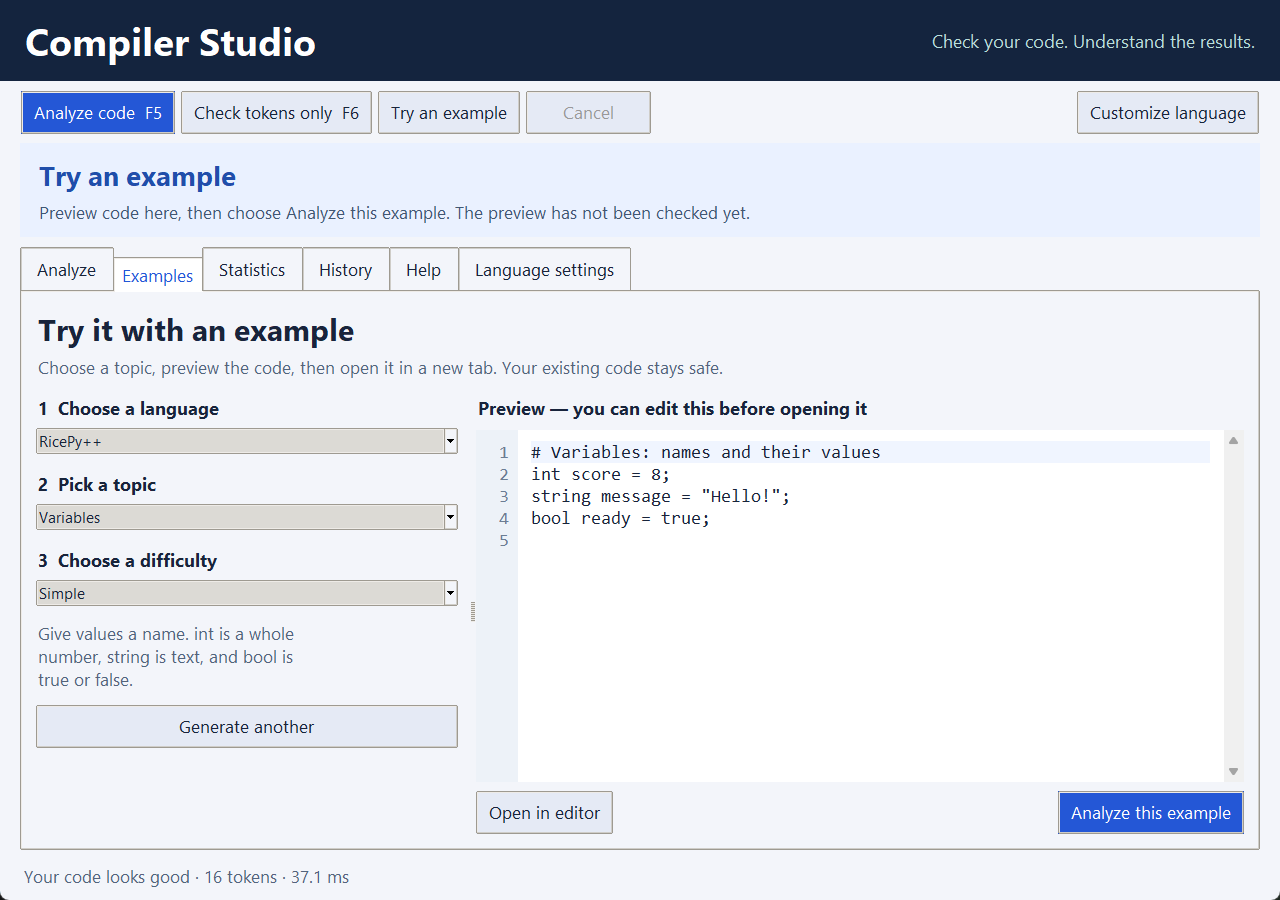
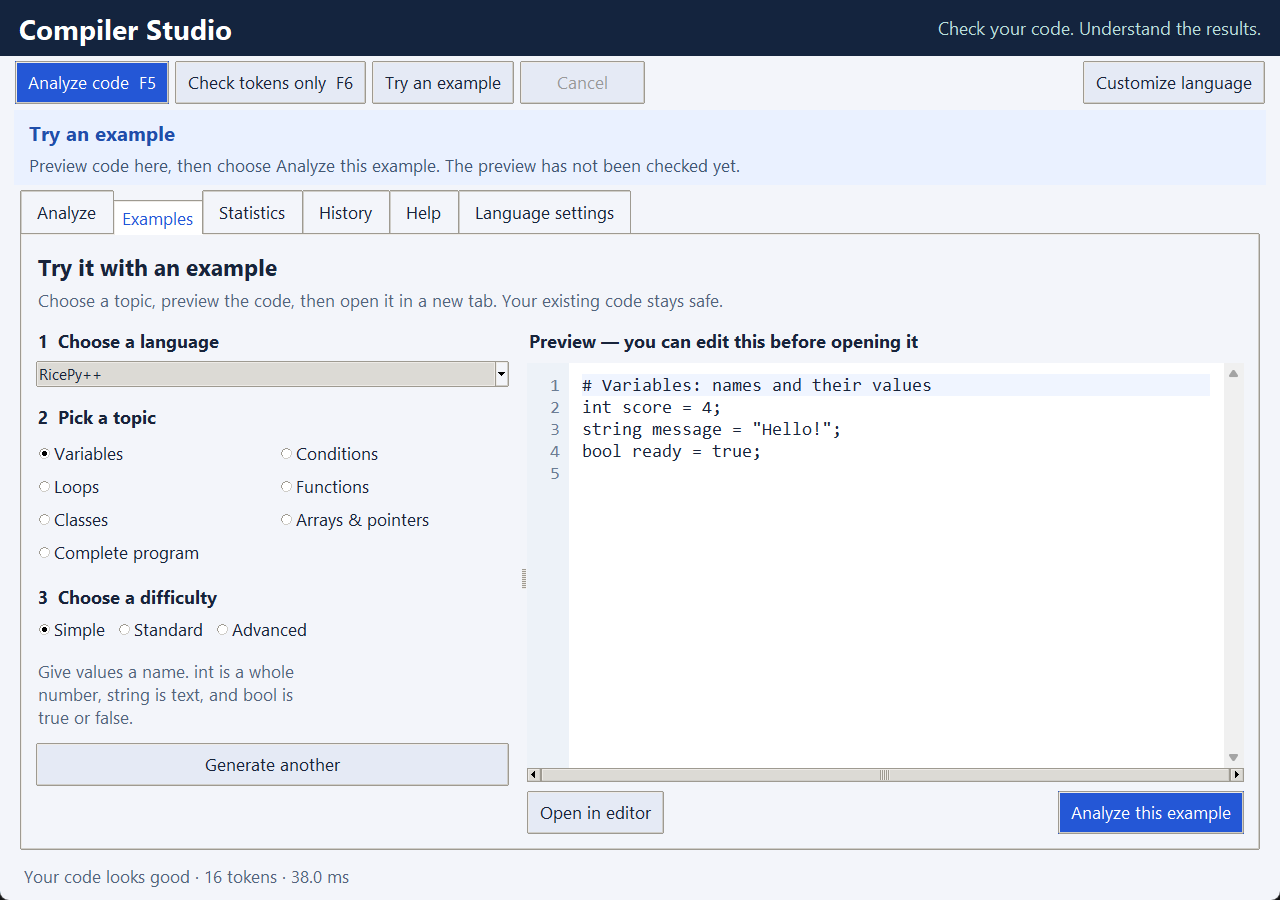
Bring Tamrin's direct workflow to the combined compiler UI

diff --git a/compiler_studio/friendly_ui.py b/compiler_studio/friendly_ui.py
@@ -12,11 +12,11 @@ from .profiles import ricepy_profile, calculator_profile
 
 class FriendlyUI:
     def _build_banner(self, parent):
-        self.banner = tk.Frame(parent, bg="#eaf1ff", padx=16, pady=10)
-        self.banner.pack(fill="x", padx=20, pady=(3, 10))
+        self.banner = tk.Frame(parent, bg="#eaf1ff", padx=12, pady=5)
+        self.banner.pack(fill="x", padx=14, pady=(2, 5))
         self.banner_title = tk.StringVar(value="Start with a small example")
         self.banner_detail = tk.StringVar(value="Edit the code or open a file, then click Analyze code.")
-        self.banner_heading = tk.Label(self.banner, textvariable=self.banner_title, font=("Segoe UI", 16, "bold"),
+        self.banner_heading = tk.Label(self.banner, textvariable=self.banner_title, font=("Segoe UI", 12, "bold"),
                                        bg="#eaf1ff", fg="#204eaa", anchor="w")
         self.banner_heading.pack(fill="x")
         self.banner_text = tk.Label(self.banner, textvariable=self.banner_detail, font=("Segoe UI", 10),
@@ -37,8 +37,8 @@ class FriendlyUI:
     def _build_summary(self):
         self.summary_tab = ttk.Frame(self.outputs, padding=16)
         self.outputs.insert(0, self.summary_tab, text="Summary")
-        exports = ttk.Frame(self.summary_tab)
-        exports.pack(side="bottom", anchor="w", pady=(10, 0))
+        exports = ttk.Frame(self.outputs.master)
+        exports.pack(side="bottom", fill="x", padx=(10, 0), pady=(5, 0), before=self.outputs)
         self.report_button = ttk.Button(exports, text="Save report (JSON)", command=self.export_json, state="disabled")
         self.report_button.pack(side="left", padx=(0, 5))
         self.csv_button = ttk.Button(exports, text="Save tokens (CSV)", command=self.export_csv, state="disabled")
@@ -57,12 +57,12 @@ class FriendlyUI:
         self.explore_structure = ttk.Button(actions, text="Code structure", command=lambda: self.outputs.select(self.structure_tab), state="disabled")
         self.explore_structure.pack(side="left")
         ttk.Button(self.summary_tab, text="Choose another example", command=lambda: self.tabs.select(self.examples_tab)).pack(anchor="w", pady=3)
-        self.outputs.select(self.summary_tab)
+        self.outputs.select(self.tokens_tab)
 
     def _build_examples(self):
         heading = ttk.Frame(self.examples_tab)
         heading.pack(fill="x", pady=(0, 10))
-        ttk.Label(heading, text="Try it with an example", font=("Segoe UI", 18, "bold")).pack(anchor="w")
+        ttk.Label(heading, text="Try it with an example", font=("Segoe UI", 14, "bold")).pack(anchor="w")
         ttk.Label(heading, text="Choose a topic, preview the code, then open it in a new tab. Your existing code stays safe.",
                   style="Muted.TLabel", wraplength=900).pack(anchor="w", pady=(3, 0))
         split = ttk.Panedwindow(self.examples_tab, orient="horizontal")
@@ -79,21 +79,25 @@ class FriendlyUI:
         languages.bind("<<ComboboxSelected>>", self._example_language_changed)
         ttk.Label(choices, text="2  Pick a topic", font=("Segoe UI", 11, "bold")).pack(anchor="w", pady=(15, 6))
         self.example_topic = tk.StringVar(value="Variables")
-        self.example_topics = ttk.Combobox(choices, textvariable=self.example_topic, values=list(TOPICS), state="readonly", width=24)
-        self.example_topics.pack(fill="x")
-        self.example_topics.bind("<<ComboboxSelected>>", lambda event: self.refresh_example())
+        self.topic_choices = ttk.Frame(choices)
+        self.topic_choices.pack(fill="x")
+        self.topic_buttons = {}
+        for column in range(2):
+            self.topic_choices.columnconfigure(column, weight=1)
         choice_footer.pack_forget()
         choice_footer.pack(fill="x", pady=(3, 0))
-        ttk.Label(choice_footer, text="3  Choose a difficulty", font=("Segoe UI", 11, "bold")).pack(anchor="w", pady=(12, 6))
+        ttk.Label(choice_footer, text="3  Choose a difficulty", font=("Segoe UI", 11, "bold")).pack(anchor="w", pady=(10, 4))
         self.example_level = tk.StringVar(value="Simple")
-        levels = ttk.Combobox(choice_footer, textvariable=self.example_level, values=LEVELS, state="readonly", width=24)
+        levels = ttk.Frame(choice_footer)
         levels.pack(fill="x")
-        levels.bind("<<ComboboxSelected>>", lambda event: self.refresh_example())
+        for level in LEVELS:
+            ttk.Radiobutton(levels, text=level, value=level, variable=self.example_level,
+                            command=self.refresh_example).pack(side="left", padx=(0, 8))
         self.example_description = tk.StringVar()
         ttk.Label(choice_footer, textvariable=self.example_description, style="Muted.TLabel", wraplength=285,
                   justify="left").pack(anchor="w", pady=(14, 8))
         self.generate_button = ttk.Button(choice_footer, text="Generate another", command=self.refresh_example)
-        self.generate_button.pack(fill="x", pady=4)
+        self.generate_button.pack(side="bottom", fill="x", pady=4, before=choice_footer.winfo_children()[0])
         actions = ttk.Frame(preview)
         actions.pack(side="bottom", fill="x", pady=(9, 0))
         ttk.Button(actions, text="Open in editor", command=self.open_example).pack(side="left")
@@ -104,7 +108,14 @@ class FriendlyUI:
 
     def _example_language_changed(self, event=None):
         topics = list(TOPICS) if self.example_language.get() == "RicePy++" else ["Arithmetic"]
-        self.example_topics.configure(values=topics)
+        for button in self.topic_buttons.values():
+            button.destroy()
+        self.topic_buttons.clear()
+        for index, topic in enumerate(topics):
+            button = ttk.Radiobutton(self.topic_choices, text=topic, value=topic,
+                                    variable=self.example_topic, command=self.refresh_example)
+            button.grid(row=index // 2, column=index % 2, sticky="w", padx=(0, 6), pady=2)
+            self.topic_buttons[topic] = button
         self.example_topic.set(topics[0])
         self.refresh_example()
 

diff --git a/compiler_studio/gui.py b/compiler_studio/gui.py
@@ -16,7 +16,7 @@ from .worker import AnalysisWorker
 from .editor import CodeEditor
 from .friendly_ui import FriendlyUI
 from .example_library import STARTER
-from .presentation import token_name, STAGES, explain_diagnostic
+from .presentation import token_group, token_name, STAGES, explain_diagnostic
 
 BLUE, INK, MUTED, BG = "#2457d6", "#18243b", "#53647c", "#f3f5fa"
 
@@ -134,11 +134,11 @@ class Studio(FriendlyUI):
         style.configure("Horizontal.TProgressbar", background=BLUE, troughcolor="#e0e7f1", borderwidth=0)
 
     def _build(self):
-        header = tk.Frame(self.root, bg="#14243e", padx=22, pady=12)
+        header = tk.Frame(self.root, bg="#14243e", padx=16, pady=6)
         header.pack(fill="x")
-        tk.Label(header, text="Compiler Studio", font=("Segoe UI", 23, "bold"), fg="white", bg="#14243e").pack(side="left")
+        tk.Label(header, text="Compiler Studio", font=("Segoe UI", 17, "bold"), fg="white", bg="#14243e").pack(side="left")
         tk.Label(header, text="Check your code. Understand the results.", font=("Segoe UI", 11), fg="#b9dedb", bg="#14243e").pack(side="right")
-        toolbar = ttk.Frame(self.root, padding=(18, 10, 18, 6))
+        toolbar = ttk.Frame(self.root, padding=(12, 5, 12, 4))
         toolbar.pack(fill="x")
         self.analyze_button = ttk.Button(toolbar, text="Analyze code  F5", command=self.run, style="Accent.TButton")
         self.analyze_button.pack(side="left", padx=3)
@@ -251,6 +251,10 @@ class Studio(FriendlyUI):
         ttk.Checkbutton(filters, text="Hide comments", variable=self.hide_comments, command=self._filter_tokens).pack(side="left")
         self.token_filter.trace_add("write", self._schedule_filter)
         self.tokens = self._table(tokens_tab, ("kind", "value", "location"), ("Type", "Text", "Line:col"), (140, 220, 70))
+        for group, color in {"Keywords": "#174ea6", "Names": "#9a4c00", "Values": "#8338a1",
+                             "Operators & symbols": "#216b38", "Needs fixing": "#b42318", "Comments": "#667085",
+                             "Other tokens": "#344054"}.items():
+            self.tokens.tag_configure(group, foreground=color)
         self.show_token_names = tk.BooleanVar(value=False)
         ttk.Checkbutton(tokens_tab, text="Show technical token names", variable=self.show_token_names,
                         command=self._filter_tokens).pack(side="bottom", anchor="w", pady=(5, 0))
@@ -847,7 +851,7 @@ class Studio(FriendlyUI):
             self._select_diagnostic()
         elif result["mode"] != "validate":
             self.tabs.select(self.workbench)
-            self.outputs.select(self.summary_tab)
+            self.outputs.select(self.tokens_tab)
 
     def _set_detail(self, text):
         self.diagnostic_detail.configure(state="normal")
@@ -877,7 +881,7 @@ class Studio(FriendlyUI):
             matched += 1
             if shown < 5000:
                 value = token["value"].replace("\r", "\\r").replace("\n", "\\n").replace("\t", "\\t")
-                self.tokens.insert("", "end", iid=str(index), values=(token["kind"] if self.show_token_names.get() else token_name(token), value[:250], f"{token['line']}:{token['column']}"))
+                self.tokens.insert("", "end", iid=str(index), values=(token["kind"] if self.show_token_names.get() else token_name(token), value[:250], f"{token['line']}:{token['column']}"), tags=(token_group(token),))
                 shown += 1
         total = len(self.result["tokens"])
         self.token_count.set(f"{matched:,} of {total:,} tokens" + (" · first 5,000 matches shown" if matched > 5000 else " · click to locate source"))

diff --git a/tests/test_gui.py b/tests/test_gui.py
@@ -290,12 +290,13 @@ class GuiTests(unittest.TestCase):
         self.assertLess(len(self.app.source.get("1.0", "end-1c").splitlines()), 8)
         self.app.analyze_button.invoke()
         self.wait_for_result()
-        self.assertEqual(self.app.outputs.select(), str(self.app.summary_tab))
+        self.assertEqual(self.app.outputs.select(), str(self.app.tokens_tab))
         self.assertIn("looks good", self.app.banner_title.get())
         self.assertEqual(self.app.metrics["parser"].get(), "Passed")
         self.assertEqual(str(self.app.csv_button["state"]), "normal")
         integer = next(str(index) for index, token in enumerate(self.app.result["tokens"]) if token["kind"] == "INTEGER")
         self.assertEqual(self.app.tokens.item(integer, "values")[0], "Whole number")
+        self.assertTrue(self.app.tokens.item(integer, "tags"))
         self.app.show_token_names.set(True)
         self.app._filter_tokens()
         self.assertEqual(self.app.tokens.item(integer, "values")[0], "INTEGER")
@@ -307,8 +308,9 @@ class GuiTests(unittest.TestCase):
     def test_examples_preserve_existing_code_and_analyze_the_edited_preview(self):
         first = self.app.active_document
         original = first.editor.get("1.0", "end-1c")
-        self.app.example_topic.set("Variables")
-        self.app.refresh_example()
+        self.app.topic_buttons["Loops"].invoke()
+        self.assertEqual(self.app.example_topic.get(), "Loops")
+        self.app.topic_buttons["Variables"].invoke()
         self.app.example_preview.insert("end", "\nint previewValue = 123;")
         self.assertTrue(self.app.open_example(analyze=True))
         self.wait_for_result()
@@ -378,14 +380,14 @@ class GuiTests(unittest.TestCase):
         self.app.run()
         self.wait_for_result()
         self.root.update()
-        for button in (self.app.report_button, self.app.csv_button, self.app.explore_tokens, self.app.explore_structure):
+        for button in (self.app.report_button, self.app.csv_button):
             self.assertTrue(button.winfo_ismapped())
             self.assertGreater(button.winfo_height(), 25)
-            self.assertLessEqual(button.winfo_rooty() + button.winfo_height(), self.app.summary_tab.winfo_rooty() + self.app.summary_tab.winfo_height())
+            self.assertLessEqual(button.winfo_rooty() + button.winfo_height(), self.app.workbench.winfo_rooty() + self.app.workbench.winfo_height())
         self.app.tabs.select(self.app.examples_tab)
         self.root.update()
         self.assertIn("not been checked", self.app.banner_detail.get())
-        for widget in (self.app.example_topics, self.app.generate_button):
+        for widget in (*self.app.topic_buttons.values(), self.app.generate_button):
             self.assertTrue(widget.winfo_ismapped())
             self.assertGreater(widget.winfo_height(), 20)
             self.assertLessEqual(widget.winfo_rooty() + widget.winfo_height(), self.app.examples_tab.winfo_rooty() + self.app.examples_tab.winfo_height())

diff --git a/README.md b/README.md
@@ -39,8 +39,8 @@ Exit status: `0` valid, `1` analysis errors, `2` file/setup/timeout errors. CLI 
 
 ## Desktop workflow
 
-- **Analyze:** edit or open files in separate tabs, then choose **Analyze code** for token and grammar checks together. Summary explains the result; Issues offers a repair hint and **Jump to problem**. Tokens uses readable names such as "Whole number", with technical names optional. Structure shows expandable grammar branches. Clear is undoable with Ctrl+Z. Reports save from Summary or the Export menu.
-- **Examples:** generate Variables, Conditions, Loops, Functions, Classes, Arrays & pointers, or a Complete program at Simple, Standard or Advanced difficulty. Preview and edit before opening a new tab. MiniCalc offers small arithmetic examples. Switching an example's language asks before replacing shared settings, and keeps source tabs.
+- **Analyze:** edit or open files in separate tabs, then choose **Analyze code** for token and grammar checks together. Colored tokens appear immediately after a successful check; Summary explains the result; Issues offers a repair hint and **Jump to problem**. Tokens uses readable names such as "Whole number", with technical names optional. Structure shows expandable grammar branches. Clear is undoable with Ctrl+Z. Report and token export buttons stay visible below all result tabs; the Export menu also provides both formats.
+- **Examples:** choose visible topic buttons and difficulty options to generate Variables, Conditions, Loops, Functions, Classes, Arrays & pointers, or a Complete program at Simple, Standard or Advanced difficulty. Preview and edit before opening a new tab. MiniCalc offers small arithmetic examples. Switching an example's language asks before replacing shared settings, and keeps source tabs.
 - **Statistics:** counts and a chart describe the active tab's tokens, with honest stage status and measured engine timings. Token-only checks clearly say grammar was not checked.
 - **History:** up to 50 check summaries for this session. Selecting a row shows its summary; clearing history keeps source and current results. History does not save source files.
 - **Help:** plain-language getting-started steps, common RicePy++ mistakes, save/export guidance and keyboard shortcuts.

diff --git a/VERIFICATION.md b/VERIFICATION.md
@@ -35,3 +35,5 @@ Scanner-equivalence tests compare optimized and exhaustive matching on generated
 The original `tamrin1/codes` source files were compared byte-for-byte against their pre-change backup and restored unchanged. The original assignment-2 sources remain in place. Only the new Python project is prepared for publication; no assignment PDFs, credentials, environments, generated C, binaries or personal datasets are included.
 
 Limitations: no executable-code generation, target-language execution, symbol resolution, static type checking or optimizer. RicePy syntax follows assignment 2; some assignment-1 reserved tokens are lexical-only. Parsing stops at the first syntax error. Custom languages must fit the named-token LALR grammar format. Regex conflicts still require example-based checks. Jobs have explicit size/depth/time limits and process cancellation, not an OS memory sandbox. Linux/macOS and other Python versions have not been verified locally.
+
+Final direct-workflow polish: all 49 tests passed again. Successful checks open colored token results immediately; exports remain visible across result tabs. Visible topic and difficulty controls replace example dropdowns. Actual high-DPI screenshots were refreshed, and the generator controls were checked at 1000x800 after correcting clipping. The lexer/parser engine and supported language scope are unchanged.
